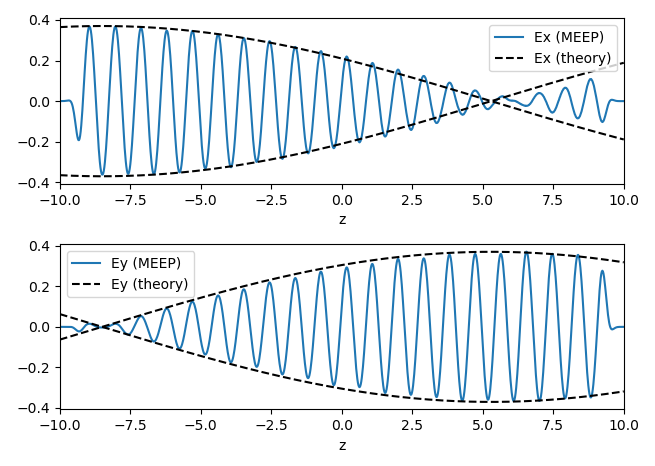
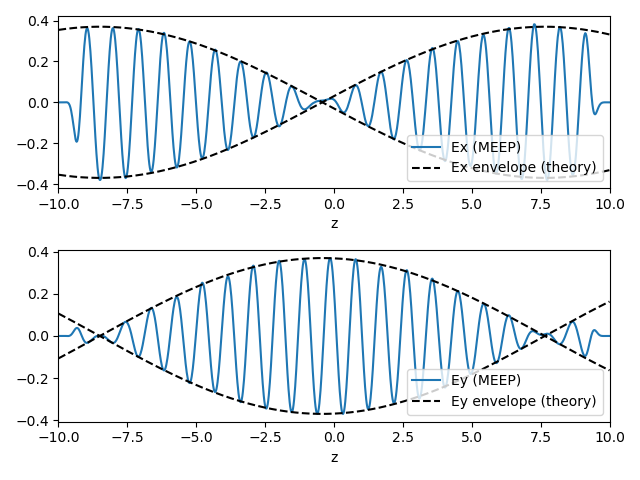
Fix Faraday rotation example

diff --git a/python/examples/faraday-rotation.py b/python/examples/faraday-rotation.py
@@ -24,7 +24,7 @@ sources = [mp.Source(mp.ContinuousSource(frequency=fsrc),
 sim = mp.Simulation(cell_size=cell, geometry=[], sources=sources,
                     k_point=mp.Vector3(),   # Periodic boundary conditions
                     boundary_layers=pml_layers,
-                    default_material=mat, resolution=100)
+                    default_material=mat, resolution=50)
 sim.run(until=tmax)
 
 ## Plot results:
@@ -43,8 +43,8 @@ plt.legend()
 
 ## Comparison with analytic result:
 dfsq = (f0**2 - 1j*fsrc*gamma - fsrc**2)
-eperp = epsn + sn * f0**2 * dfsq / (dfsq**2 + (fsrc*b0)**2)
-eta = sn * f0**2 * fsrc * b0 / (dfsq**2 + (fsrc*b0)**2)
+eperp = epsn + sn * f0**2 * dfsq / (dfsq**2 - (fsrc*b0)**2)
+eta = sn * f0**2 * fsrc * b0 / (dfsq**2 - (fsrc*b0)**2)
 
 k_gyro = 2*np.pi*fsrc * np.sqrt(0.5*(eperp - np.sqrt(eperp**2 - eta**2)))
 Ex_theory = 0.37 * np.cos(k_gyro * (z - src_z)).real
@@ -54,15 +54,15 @@ plt.figure(2)
 plt.subplot(2,1,1)
 plt.plot(z, ex_data, label='Ex (MEEP)')
 plt.plot(z, Ex_theory, 'k--')
-plt.plot(z, -Ex_theory, 'k--', label='Ex (theory)')
+plt.plot(z, -Ex_theory, 'k--', label='Ex envelope (theory)')
 plt.xlim(-L/2, L/2); plt.xlabel('z')
-plt.legend()
+plt.legend(loc='lower right')
 
 plt.subplot(2,1,2)
 plt.plot(z, ey_data, label='Ey (MEEP)')
 plt.plot(z, Ey_theory, 'k--')
-plt.plot(z, -Ey_theory, 'k--', label='Ey (theory)')
+plt.plot(z, -Ey_theory, 'k--', label='Ey envelope (theory)')
 plt.xlim(-L/2, L/2); plt.xlabel('z')
-plt.legend()
+plt.legend(loc='lower right')
 plt.tight_layout()
 plt.show()

diff --git a/doc/docs/Python_Tutorials/Gyrotropic_Media.md b/doc/docs/Python_Tutorials/Gyrotropic_Media.md
@@ -6,11 +6,11 @@ In this example, we will perform simulations with gyrotropic media. See [Materia
 
 ### Faraday Rotation
 
-Consider a uniform gyrotroelectric medium with bias vector $\mathbf{b} = b \hat{z}$. According to the [gyrotropic Lorentzian model implemented in Meep](../Materials.md#gyrotropic-media), the *x* and *y* components of the dielectric function are
+Consider a uniform gyroelectric medium with bias vector $\mathbf{b} = b \hat{z}$. In the frequency domain, the *x* and *y* components of the dielectric function are
 
 $$\epsilon = \begin{bmatrix}\epsilon_\perp & -i\eta \\ i\eta & \epsilon_\perp \end{bmatrix}$$
 
-where
+In the [gyrotropic Lorentzian model](../Materials.md#gyrotropic-media), the tensor components are
 
 $$\epsilon_\perp = \epsilon_\infty + \frac{\omega_n^2 \Delta_n}{\Delta_n^2 - \omega^2 b^2}\,\sigma_n(\mathbf{x}),\;\;\; \eta = \frac{\omega_n^2 \omega b}{\Delta_n^2 - \omega^2 b^2}\,\sigma_n(\mathbf{x}), \;\;\;\Delta_n \equiv \omega_n^2 - \omega^2 - i\omega\gamma_n$$
 
@@ -20,7 +20,7 @@ A plane wave undergoing Faraday rotation can be described by the complex ansatz
 
 $$\begin{bmatrix}E_x \\ E_y\end{bmatrix} = E_0 \begin{bmatrix}\cos(\kappa_c z) \\ \sin(\kappa_c z)\end{bmatrix} e^{i(kz-\omega t)}$$
 
-where $\kappa_c$ is the Faraday rotation, in radians, per unit of propagation distance. Substituting this into Maxwell's equations, with the above gyroelectric dielectric function, yields
+where $\kappa_c$ is the Faraday rotation (in radians) per unit of propagation distance. Substituting this into the frequency domain Maxwell's equations, with the above dielectric tensor, yields
 
 $$|\kappa_c| = \omega \sqrt{\frac{\mu}{2} \, \left(\epsilon_\perp - \sqrt{\epsilon_\perp^2 - \eta^2}\right)}$$
 
@@ -30,10 +30,10 @@ We model this phenomenon in the simulation script [faraday-rotation.py](https://
 
 ## Define a gyroelectric medium
 f0 = 1.0
-gamma = 1e-4
-epsn = 2.0
-b0 = 1.05
-sigma = 0.2
+gamma = 1e-6
+epsn = 1.5
+b0 = 0.15
+sn = 0.1
 
 susc = [mp.GyrotropicLorentzianSusceptibility(frequency=f0, gamma=gamma, sigma=sigma,
                                               bias=mp.Vector3(0, 0, b0))]
@@ -84,28 +84,28 @@ plt.show()
 
 We see that the wave indeed rotates in the *x*-*y* plane as it travels. This can be compared quantitatively to the above ansatz for a wave undergoing Faraday rotation, using the material parameters to calculate the rotation rate $\kappa_c$:
 
-```dfsq = (f0*2 - 1j*f0*gamma - fsrc**2)
-eperp = epsn + sigma * f0**2 * dfsq / (dfsq**2 + (fsrc*b0)**2)
-eta = sigma * f0**2 * fsrc * b0 / (dfsq**2 + (fsrc*b0)**2)
+```dfsq = (f0**2 - 1j*fsrc*gamma - fsrc**2)
+eperp = epsn + sn * f0**2 * dfsq / (dfsq**2 - (fsrc*b0)**2)
+eta = sn * f0**2 * fsrc * b0 / (dfsq**2 - (fsrc*b0)**2)
 
 k_gyro = 2*np.pi*fsrc * np.sqrt(0.5*(eperp - np.sqrt(eperp**2 - eta**2)))
-Ex_theory = 0.37 * np.cos(k_gyro * (z - src_z))    # amplitude estimated by eye
-Ey_theory = 0.37 * np.sin(k_gyro * (z - src_z))
+Ex_theory = 0.37 * np.cos(k_gyro * (z - src_z)).real
+Ey_theory = 0.37 * np.sin(k_gyro * (z - src_z)).real
 
 plt.figure(2)
 plt.subplot(2,1,1)
 plt.plot(z, ex_data, label='Ex (MEEP)')
 plt.plot(z, Ex_theory, 'k--')
-plt.plot(z, -Ex_theory, 'k--', label='Ex (theory)')
+plt.plot(z, -Ex_theory, 'k--', label='Ex envelope (theory)')
 plt.xlim(-L/2, L/2); plt.xlabel('z')
-plt.legend()
+plt.legend(loc='lower right')
 
 plt.subplot(2,1,2)
 plt.plot(z, ey_data, label='Ey (MEEP)')
 plt.plot(z, Ey_theory, 'k--')
-plt.plot(z, -Ey_theory, 'k--', label='Ey (theory)')
+plt.plot(z, -Ey_theory, 'k--', label='Ey envelope (theory)')
 plt.xlim(-L/2, L/2); plt.xlabel('z')
-plt.legend()
+plt.legend(loc='lower right')
 plt.tight_layout()
 plt.show()
 ```

diff --git a/doc/docs/Materials.md b/doc/docs/Materials.md
@@ -174,11 +174,13 @@ Gyrotropic Media
 
 In a gyroelectric medium, the equation of motion of the polarization vector $\mathbf{P}_n$ is very similar to the [Drude-Lorentz](Materials.md#material-dispersion) case, but contains an additional precession term:
 
-$$\frac{d^2\mathbf{P}_n}{dt^2} + \gamma_n \frac{d\mathbf{P}_n}{dt} + \mathbf{b}_n \times \frac{d\mathbf{P}_n}{dt} + \omega_n^2 \mathbf{P}_n = \sigma_n(\mathbf{x}) \omega_n^2 \mathbf{E}$$
+$$\frac{d^2\mathbf{P}_n}{dt^2} + \gamma_n \frac{d\mathbf{P}_n}{dt} - \frac{d\mathbf{P}_n}{dt} \times \mathbf{b}_n + \omega_n^2 \mathbf{P}_n = \sigma_n(\mathbf{x}) \omega_n^2 \mathbf{E}$$
 
-(Optionally, the polarization may be of Drude form, in which case the $\omega_n^2 \mathbf{P}_n$ term on the left-hand side is omitted.) The third term on the left-hand side breaks time-reversal symmetry and describes the gyrotropy of the medium; it is parameterized by the bias vector $\mathbf{b}_n$, usually describing the effect of an applied static magnetic field. In the $\gamma_n = \omega_n = 0$ limit, the equation of motion reduces to a precession around $\mathbf{b}_n$, with angular frequency equal to $|\mathbf{b}_n|$:
+(Optionally, the polarization may be of Drude form, in which case the $\omega_n^2 \mathbf{P}_n$ term on the left is omitted.) The third term on the left side is responsible for the gyrotropy of the medium. This term breaks time-reversal symmetry and typically describes the effect of a static external magnetic field on the motion of electrons within the material. The bias vector $\mathbf{b}_n$ characterizes the direction and magnitude of the external magnetic field. In the $\gamma_n = \omega_n = 0$ limit, the equation of motion reduces to a precession around $\mathbf{b}_n$:
 
 $$\frac{d\mathbf{P}_n}{dt} = \mathbf{P}_n \times \mathbf{b}_n$$
+
+Hence, the magnitude of the bias vector is the angular frequency of the gyrotropic precession.
 
 In the frequency domain, a gyroelectric medium has skew-symmetric off-diagonal components in the ε tensor. Take the case $\mathbf{b} = b \hat{z}$. When all fields have harmonic time-dependence $\exp(-i\omega t)$, the polarization equation of motion reduces to
 

diff --git a/doc/docs/Python_User_Interface.md b/doc/docs/Python_User_Interface.md
@@ -394,7 +394,7 @@ This is a somewhat unusual polarizable medium, a Lorentzian susceptibility with 
 
 ### GyrotropicLorentzianSusceptibility or GyrotropicDrudeSusceptibility
 
-(**Experimental feature**) Specifies a single dispersive gyrotropic susceptibility of Lorentzian (damped harmonic oscillator) or Drude form. See [Material Dispersion](Materials.md#gyrotropic-media). The parameters `sigma`, `frequency`, and `gamma` have the usual meanings, and there is an additional 3-vector `bias`:
+(**Experimental feature**) Specifies a single dispersive gyrotropic susceptibility of Lorentzian (damped harmonic oscillator) or Drude form. See [Material Dispersion](Materials.md#gyrotropic-media). Its parameters are `sigma`, `frequency`, and `gamma`, which have the usual meanings, and an additional 3-vector `bias`:
 
 **`bias` [`Vector3`]**
 —
